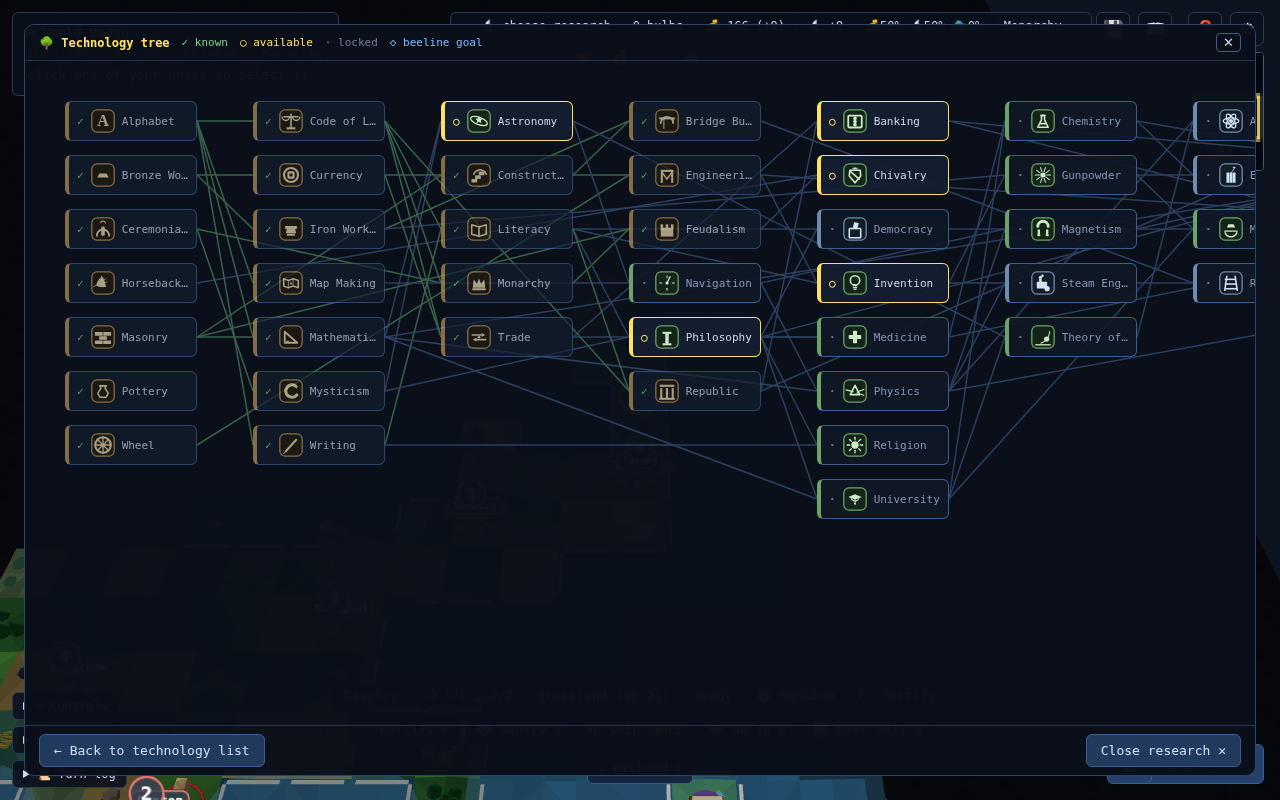
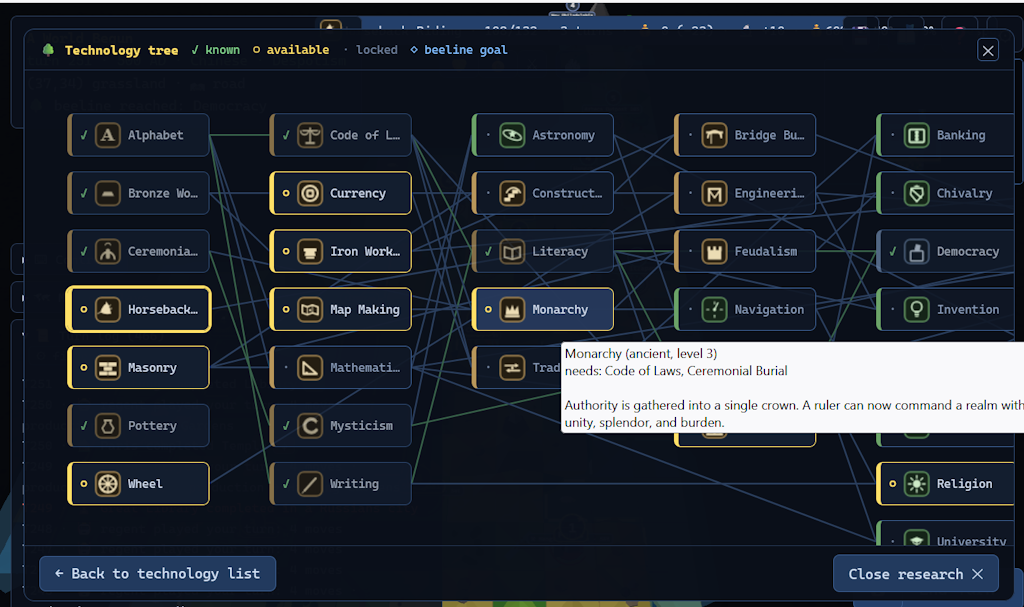
screenshot: use the hand-captured tech tree — it shows the tooltip mine could not
Swapped my headless capture for the user's candidate. Theirs is the better
image for one specific reason: the hover card on Monarchy reads "needs: Code of
Laws, Ceremonial Burial" plus the flavour line, which demonstrates that the UI
explains itself. Mine showed the tree's structure and nothing about what the
game tells you.

I tried to reproduce it: hovering the node headlessly highlights it but does not
raise the tooltip, so the shot stayed structural. Not worth more time when a
better one already exists.

The trade is real and worth recording: theirs is 1024x607 with the tooltip
slightly overrunning the card's right edge; mine was 1280x800 and clipped
nothing. Content beat framing here. If it is retaken, hovering a node one or two
columns further left leaves the tooltip room.

Alt text rewritten to describe what the image now actually shows.

diff --git a/reports/release-notes-v1.0.0.md b/reports/release-notes-v1.0.0.md
@@ -54,7 +54,7 @@ turn by turn, exactly as it unfolded. **The record is the game.**
 Press **Shift+D** in any game to download a recording; `node tools/replay.js
 <file>` re-runs it and pinpoints the exact command where anything diverges.
 
-![The graphical technology tree: Alphabet through Writing ticked as known, Astronomy and Philosophy circled as available, Democracy and Gunpowder still locked, dependency edges drawn between them, and a procedural era glyph on every advance](https://raw.githubusercontent.com/kjelloe/RetroMultiCiv/v1.0.0/docs/screenshot-techtree.png)
+![The graphical technology tree: known advances ticked, available ones circled, locked ones dimmed, dependency edges drawn between them, and a hover card on Monarchy reading "needs: Code of Laws, Ceremonial Burial — Authority is gathered into a single crown"](https://raw.githubusercontent.com/kjelloe/RetroMultiCiv/v1.0.0/docs/screenshot-techtree.png)
 
 There are **two** implementations — JavaScript and Luau — and they agree
 byte-for-byte. A game played in Roblox Studio replays command-by-command through

diff --git a/README.md b/README.md
@@ -53,7 +53,7 @@ the browser engine with identical state hashes at every checkpoint. 1048 headles
 tests hold that contract, including 69 rule scenarios that run against both
 engines and a golden 545-turn game pinned to the hash.
 
-![The graphical technology tree: Alphabet through Writing ticked as known, Astronomy and Philosophy circled as available, Democracy and Gunpowder still locked, with dependency edges drawn between them and a procedural era glyph on every advance](docs/screenshot-techtree.png)
+![The graphical technology tree: known advances ticked, available ones circled, locked ones dimmed, dependency edges drawn between them, and a hover card on Monarchy reading "needs: Code of Laws, Ceremonial Burial — Authority is gathered into a single crown"](docs/screenshot-techtree.png)
 
 ## Multiplayer
 
